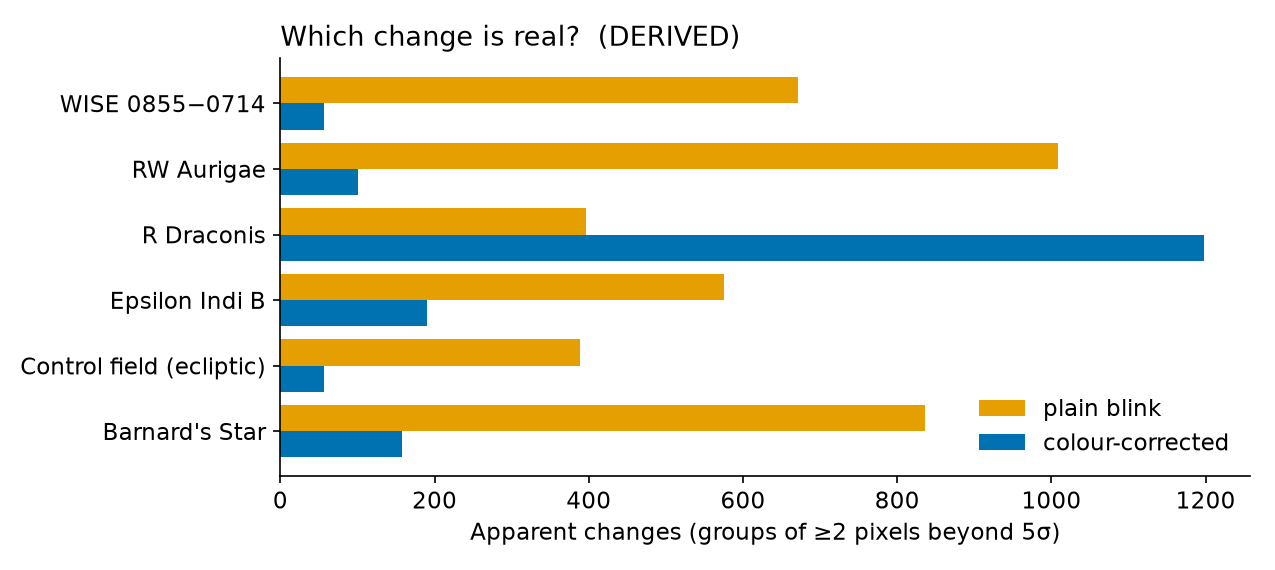
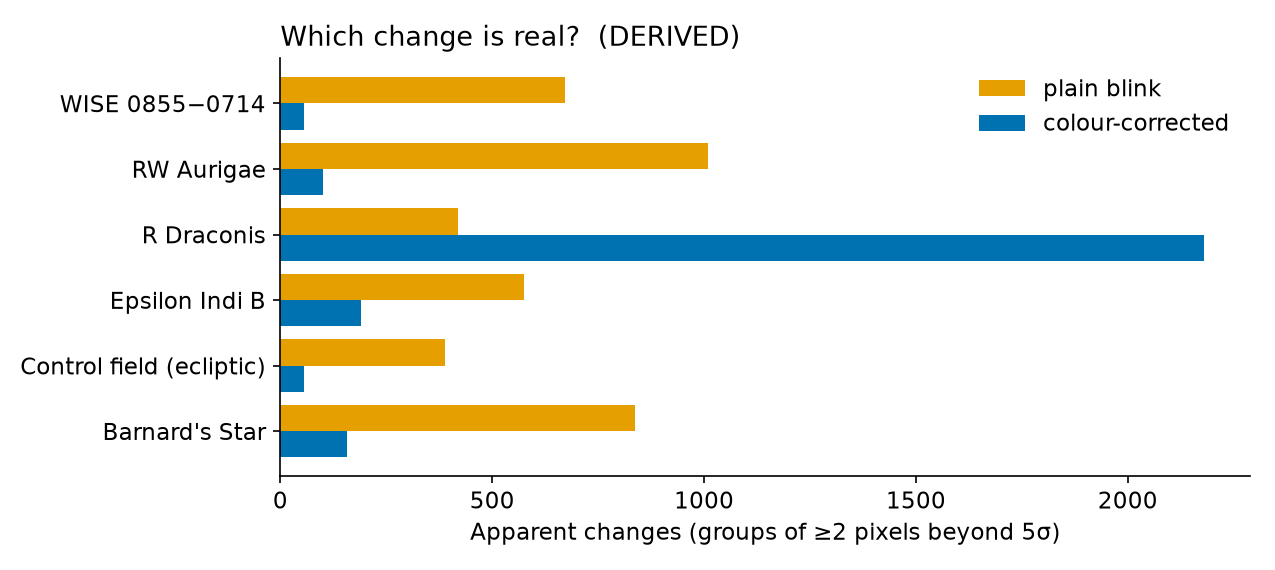
regenerate stale fig_reveal and fig_change from current data

diff --git a/site/data/science.md b/site/data/science.md
@@ -255,7 +255,7 @@ For an asteroid with a known orbit, we predict where it is in every picture (JPL
 
 **The slider.** On the home page slider, each step is measured against the same pictures combined along the same empty paths (the scale is never taken below 1), so the number can fall as well as rise as pictures are added.
 
-![Single pictures against the stack](figs/fig_reveal.png "Left: single pictures. Right: the stack along the orbit.")
+![The stack along the orbit against single pictures](figs/fig_reveal.png "Left: the pictures combined along the orbit. Right: single pictures.")
 
 **Not new.** Stacking along known orbits is established: NEOWISE (Masiero et al.), the KBMOD shift-and-stack search (Whidden et al. 2019), IRSA's MOST tutorial, and other Space Apps 2026 teams. We use it as a measured demonstration, not as a new method.
 
